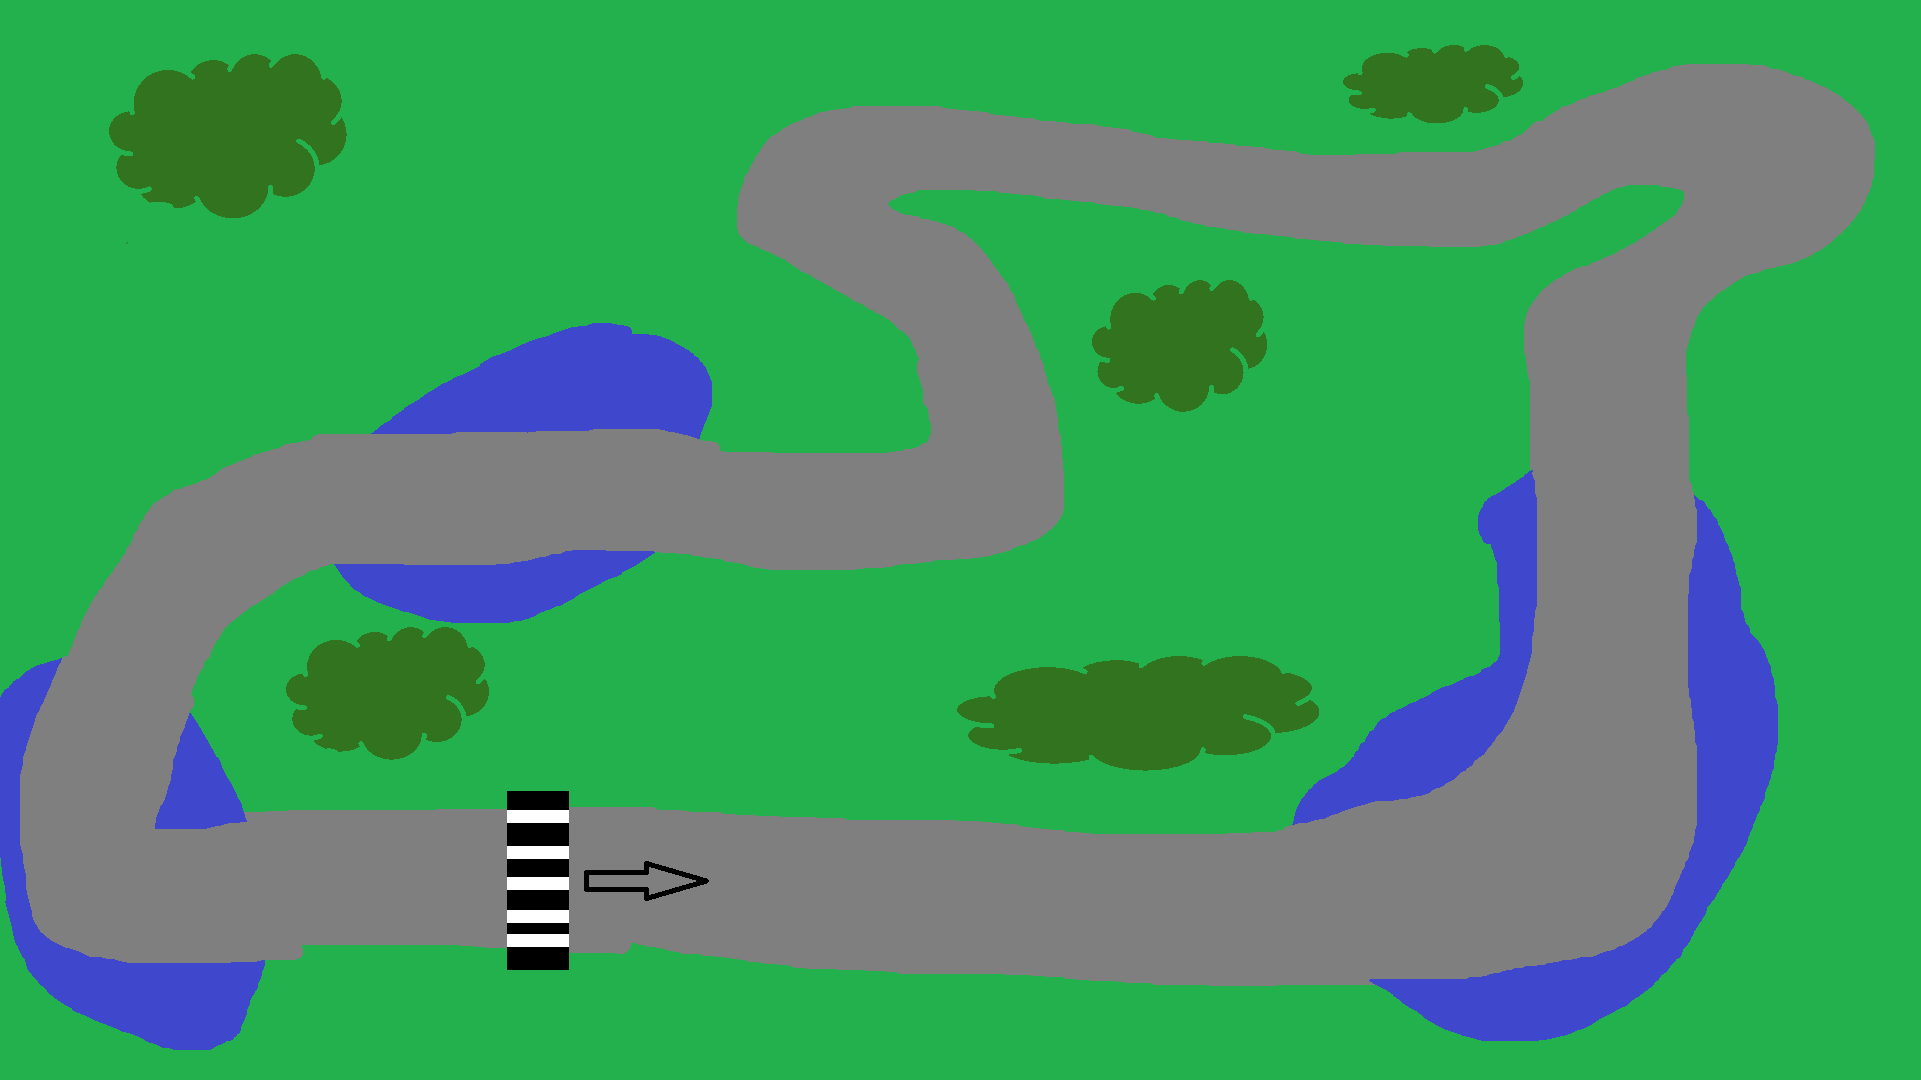
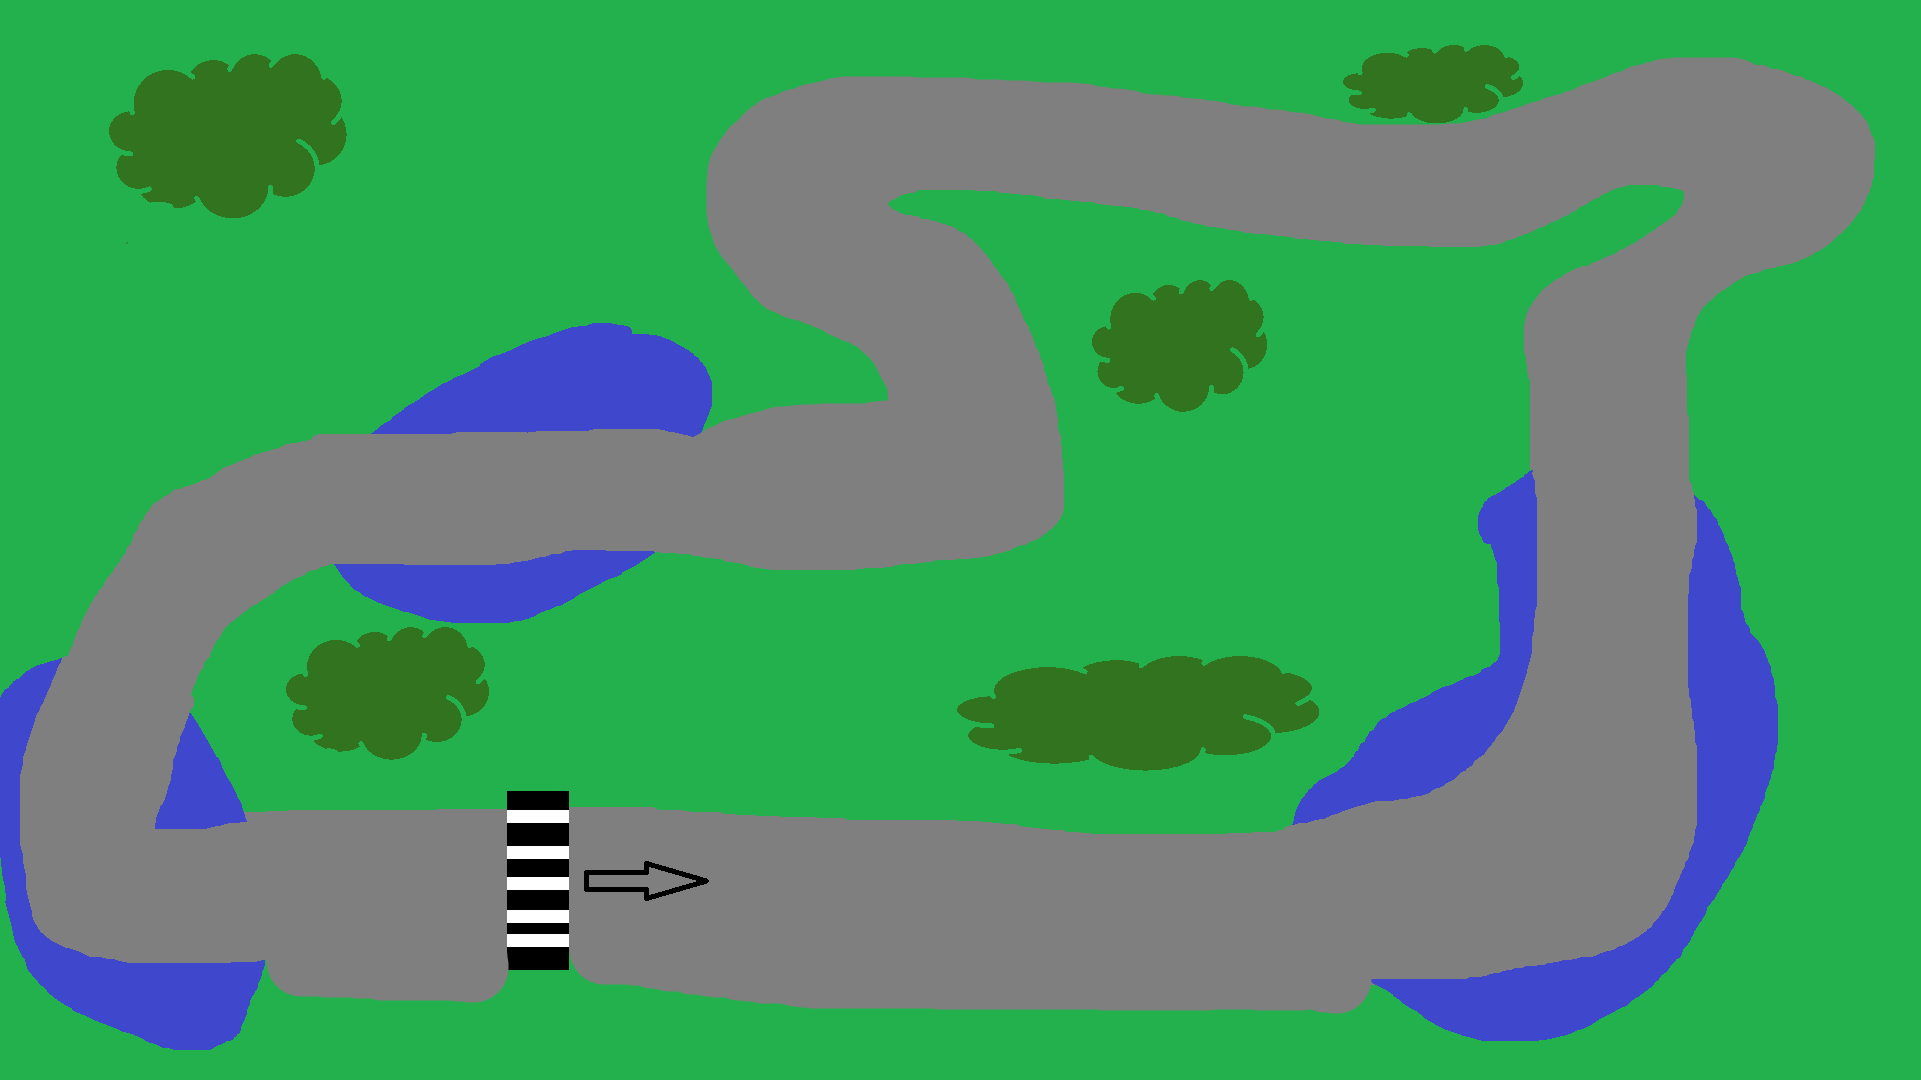
Řešení-finish-line

Changed region(s): [[0.3436, 0.0611, 0.8121, 0.4278], [0.1249, 0.8556, 0.7184, 0.9472], [0.8121, 0.0306, 0.9058, 0.0917]]

diff --git a/Game.py b/Game.py
@@ -27,7 +27,7 @@ pygame.display.set_caption("2D Racing Game")
 
 # Načtení obrázku auta
 car_image = pygame.image.load("Racing-car-front.png")
-car_width, car_height = 50, 100
+car_width, car_height = 25, 50
 car_image = pygame.transform.scale(car_image, (car_width, car_height))
 car_x, car_y = WIDTH // 2 - car_width // 2, HEIGHT - car_height - 20
 car_direction = "front"
@@ -41,12 +41,52 @@ vybrane_auto_index = 0
 in_car_selection = False
 
 maps = [
-    {"name": "Dijon-Prenois", "image": "maps/Ain-Diab-circuit-Asi.png"},
-    {"name": "Spa", "image": "maps/Antire Motor racing circuit - asi.png"},
-    {"name": "Monaco", "image": "maps/Autodromo Internazionale Enzo e Dino Ferrari.png"},
-    {"name": "Suzuka", "image": "maps/Circuit Dijon-Prenois.png"},
-    {"name": "Red Bull Ring", "image": "maps/Redbull Ring.png"},
-    {"name": "Brno Circuit", "image": "maps/Valenica street circuit.png"}
+        {
+        "name": "Ain-Diab-circuit",
+        "image": "maps/Ain-Diab-circuit-Asi.png",
+        "start_x": 400,
+        "start_y": 360,
+        "start_dir": "front",
+        "finish_zone": (380, 340, 60, 40)
+
+    },
+        {
+        "name": "Antire Motor racing circuit", 
+        "image": "maps/Antire Motor racing circuit - asi.png",
+        "start_x": 450,
+        "start_y": 500,
+        "start_dir": "left"
+    },
+    {
+        "name": "Autodromo Internazionale Enzo e Dino Ferrari",
+        "image": "maps/Autodromo Internazionale Enzo e Dino Ferrari.png",
+        "start_x": 150,
+        "start_y": 480,
+        "start_dir": "right"
+
+    },
+    {
+        "name": "Circuit Dijon-Prenois", 
+        "image": "maps/Circuit Dijon-Prenois.png",
+        "start_x": 350,
+        "start_y": 120,
+        "start_dir": "right"
+
+    },
+    {
+        "name": "Red Bull Ring", 
+        "image": "maps/Redbull Ring.png",
+        "start_x": 420,
+        "start_y": 500,
+        "start_dir": "left"
+
+    },
+    {
+        "name": "Valenica street circuit", 
+        "image": "maps/Valenica street circuit.png",
+        "start_x": 220,
+        "start_y": 310,
+    }
 ]
 vybrana_mapa_index = 0
 background_image = pygame.image.load(maps[0]["image"])
@@ -57,7 +97,7 @@ in_map_selection = False
 
 
 # Rychlost pohybu
-speed = 5
+speed = 2
 fullscreen = False
 
 # Herní stav
@@ -123,6 +163,7 @@ def vykresli_vyber_auta():
     text = font.render("Vybrat", True, BLACK)
     screen.blit(text, (WIDTH // 2 - text.get_width() // 2, 360))
 
+
 def toggle_fullscreen():
     global fullscreen, screen, WIDTH, HEIGHT
     fullscreen = not fullscreen
@@ -133,13 +174,40 @@ def toggle_fullscreen():
         screen = pygame.display.set_mode((800, 600), pygame.RESIZABLE)
         WIDTH, HEIGHT = 800, 600
 
+
+def is_road_color(color, tolerance=15):
+    r, g, b, *_ = color
+
+    # Detekce šedé (běžná trať)
+    is_gray = abs(r - g) < tolerance and abs(g - b) < tolerance and abs(r - 128) < tolerance
+
+    # Povolení černé nebo bílé (startovní čára apod.)
+    is_white = r > 240 and g > 240 and b > 240
+    is_black = r < 20 and g < 20 and b < 20
+
+    return is_gray or is_white or is_black
+
+
 def check_off_road(x, y):
-    # Získá barvu pixelu pod autem
-    pixel_color = background_image.get_at((int(x + car_width / 2), int(y + car_height / 2)))
-    # Pokud není šedá, reset na start
-    if pixel_color != (128, 128, 128, 255):  # RGBA šedá
-        return True
-    return False
+    try:
+        pixel_color = background_image.get_at((int(x + car_width / 2), int(y + car_height / 2)))
+    except IndexError:
+        return True  # Mimo obraz
+
+    if is_road_color(pixel_color):
+        return False  # Jsme na silnici nebo startovní čáře
+    return True  # Jsme mimo
+
+def is_on_finish_line(x, y, track_image, zone_rect):
+    color = track_image.get_at((int(x), int(y)))[:3]
+
+    if not (color == (255, 255, 255) or color == (0, 0, 0)):
+        return False
+
+    return zone_rect.collidepoint(x, y)
+
+
+
 
 def vykresli_vyber_mapy():
     screen.fill(GRAY)
@@ -229,6 +297,12 @@ while running:
                 elif WIDTH // 2 - 100 <= x <= WIDTH // 2 + 100 and 370 <= y <= 420:
                     background_image = pygame.image.load(maps[vybrana_mapa_index]["image"])
                     background_image = pygame.transform.scale(background_image, (WIDTH, HEIGHT))
+
+                    # Nastav pozici auta podle mapy
+                    car_x = maps[vybrana_mapa_index]["start_x"]
+                    car_y = maps[vybrana_mapa_index]["start_y"]
+                    car_direction = maps[vybrana_mapa_index].get("start_dir", "front")
+
                     in_map_selection = False
                     in_menu = True
             elif event.type == pygame.KEYDOWN:
@@ -236,6 +310,7 @@ while running:
                     toggle_fullscreen()
                 elif event.key == pygame.K_ESCAPE:
                     pygame.display.iconify()
+
 
     #Logika pro výběr auta
     elif in_car_selection:
@@ -313,6 +388,24 @@ while running:
         car_x = max(0, min(car_x, WIDTH - car_width))
         car_y = max(0, min(car_y, HEIGHT - car_height))
 
+        # Detekce kolize – jsi mimo trať?
+        if check_off_road(car_x, car_y):
+            messagebox.showinfo("Kolize", "Vyjel jsi z trati! Vracíš se na start.")
+            car_x = maps[vybrana_mapa_index]["start_x"]
+            car_y = maps[vybrana_mapa_index]["start_y"]
+            car_direction = maps[vybrana_mapa_index].get("start_dir", "front")
+            
+        # Detekce cílové čáry
+        zone = pygame.Rect(*maps[vybrana_mapa_index]["finish_zone"])
+        if is_on_finish_line(car_x + car_width // 2, car_y + car_height // 2, background_image, zone):
+            messagebox.showinfo("Cíl!", "Gratuluji, dojel jsi do cíle!")
+            car_x = maps[vybrana_mapa_index]["start_x"]
+            car_y = maps[vybrana_mapa_index]["start_y"]
+            car_direction = maps[vybrana_mapa_index].get("start_dir", "front")
+
+
+
+
         # Otočení auta
         if car_direction == "left":
             rotated_car = pygame.transform.rotate(car_image, 90)
@@ -324,8 +417,9 @@ while running:
             rotated_car = pygame.transform.rotate(car_image, 180)
         
         # Vykreslení
-        screen.fill(BLACK)
-        screen.blit(rotated_car, (car_x, car_y))
+        screen.blit(background_image, (0, 0))  # NEJDŘÍV mapa!
+        screen.blit(rotated_car, (car_x, car_y))  # Pak auto
         pygame.display.flip()
+
     
 pygame.quit()
